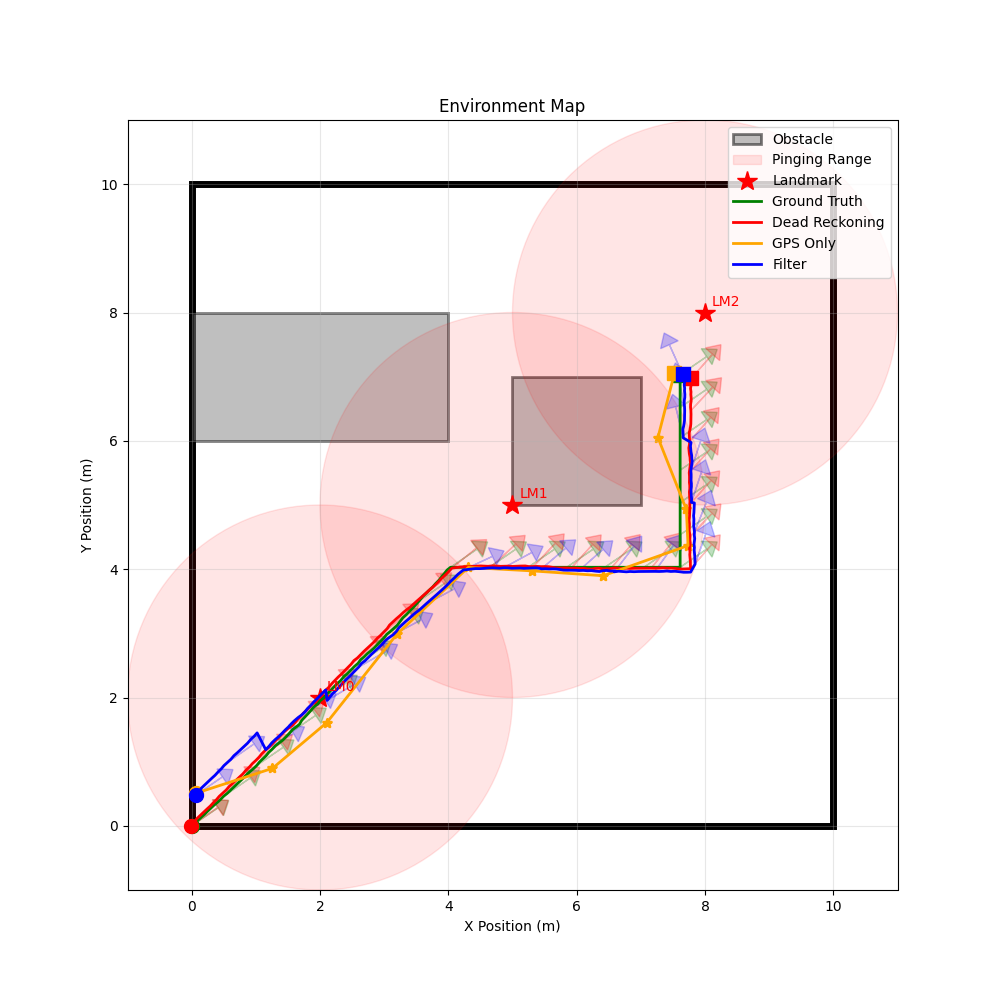
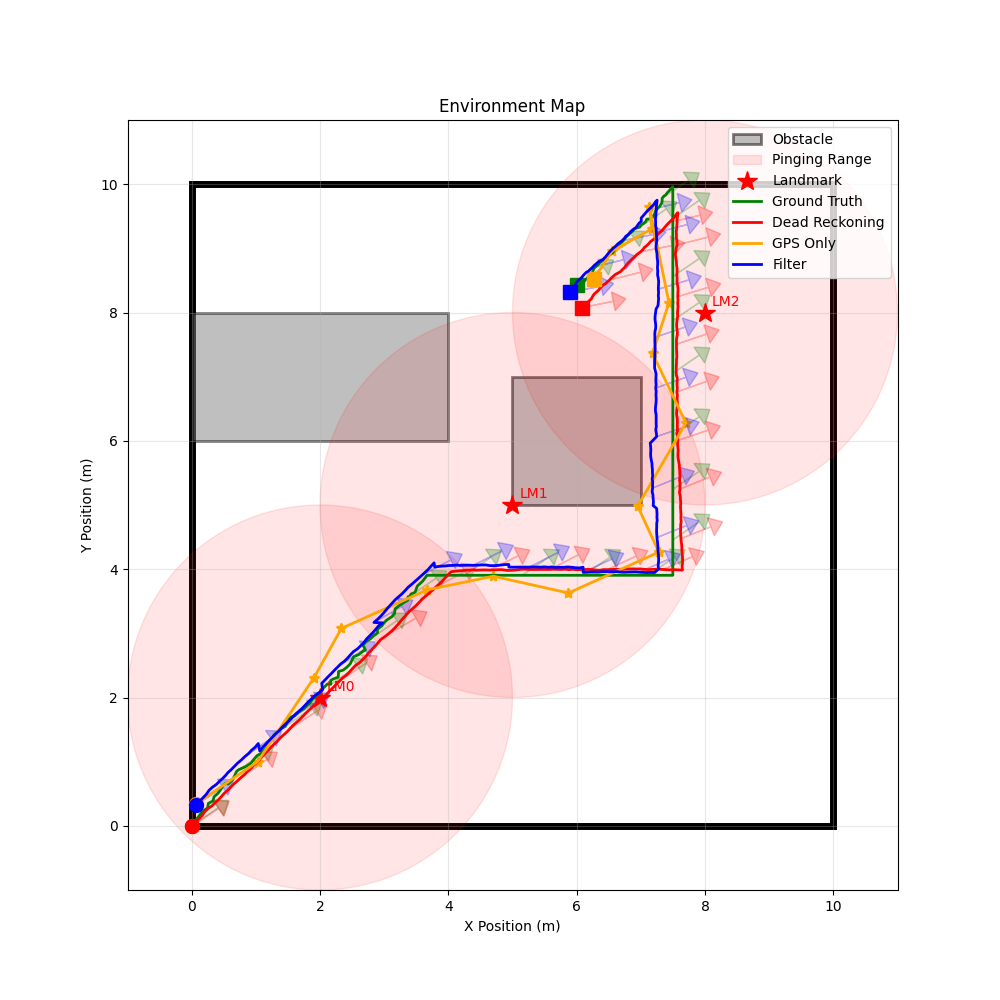
update images in README

Changed region(s): [[0.186, 0.155, 0.744, 0.837]]

diff --git a/README.md b/README.md
@@ -49,7 +49,7 @@ This repository contains a 2D simulation environment used in the _Probabilistic 
 
    ```bash
     # For Linear KF
-    python3 src/main.py --input_commands ./input/diff_vel_cmd.csv --config ./input/config.yaml --drive_type 1
+    python3 src/main.py --input_commands ./input/swerve_vel_cmd.csv --config ./input/config.yaml --drive_type 1
     
     # For Extended KF
     python3 src/main.py --input_commands ./input/diff_vel_cmd.csv --config ./input/config.yaml --drive_type 0
@@ -65,6 +65,10 @@ The plot above shows the true trajectory of the robot (green), the trajectory fr
 
 
 ### Extended Kalman Filter
-<image src="media/ekf_output.png" alt="Extended KF Output" width="500"/>
+<img src="media/ekf_output_gps_only.png" alt="EKF Output GPS only" width="400"/> <img src="media/ekf_output_gps_landmarks.png" alt="EKF Output GPS and Landmarks" width="400"/>
 
-The plot above shows the true trajectory of the robot (green), the trajectory from dead reckoning, the trajectory estimated by the Extended Kalman Filter (blue), GPS observations (orange), and the landmarks (star). We can see that the dead reckoning trajectory diverges significantly from the true trajectory due to the accumulation of errors over time. In contrast, the EKF trajectory is able to  follow the true trajectory closer, demonstrating its ability to correct for such errors using sensor measurements. The GPS observations provide additional information that helps the EKF maintain an accurate estimate of the robot's position, while the landmarks serve as reference points that further enhance the filter's performance.
+The plot on the **left** shows the EKF trajectory when only GPS measurements are used for updates, while the plot on the **right** shows the EKF trajectory when both GPS and landmark measurements are used. Both plots also include the true trajectory of the robot (green), the trajectory from dead reckoning (red), GPS observations (orange), and the landmarks (star). 
+
+We can see that with only GPS measurements, there are still noticeable differences between the EKF trajectory and the true trajectory, especially as time progresses. This is because GPS measurements alone may not be sufficient to correct for all the errors in the state estimate, particularly in scenarios where the robot is turning or when GPS measurements are noisy. 
+
+When both GPS and landmark measurements are used, the EKF trajectory follows the true trajectory closer, demonstrating a significant improvement in estimation accuracy. This is because the landmarks provide additional information that helps to correct for errors in the state estimate, especially during turns or when GPS measurements are less reliable.
